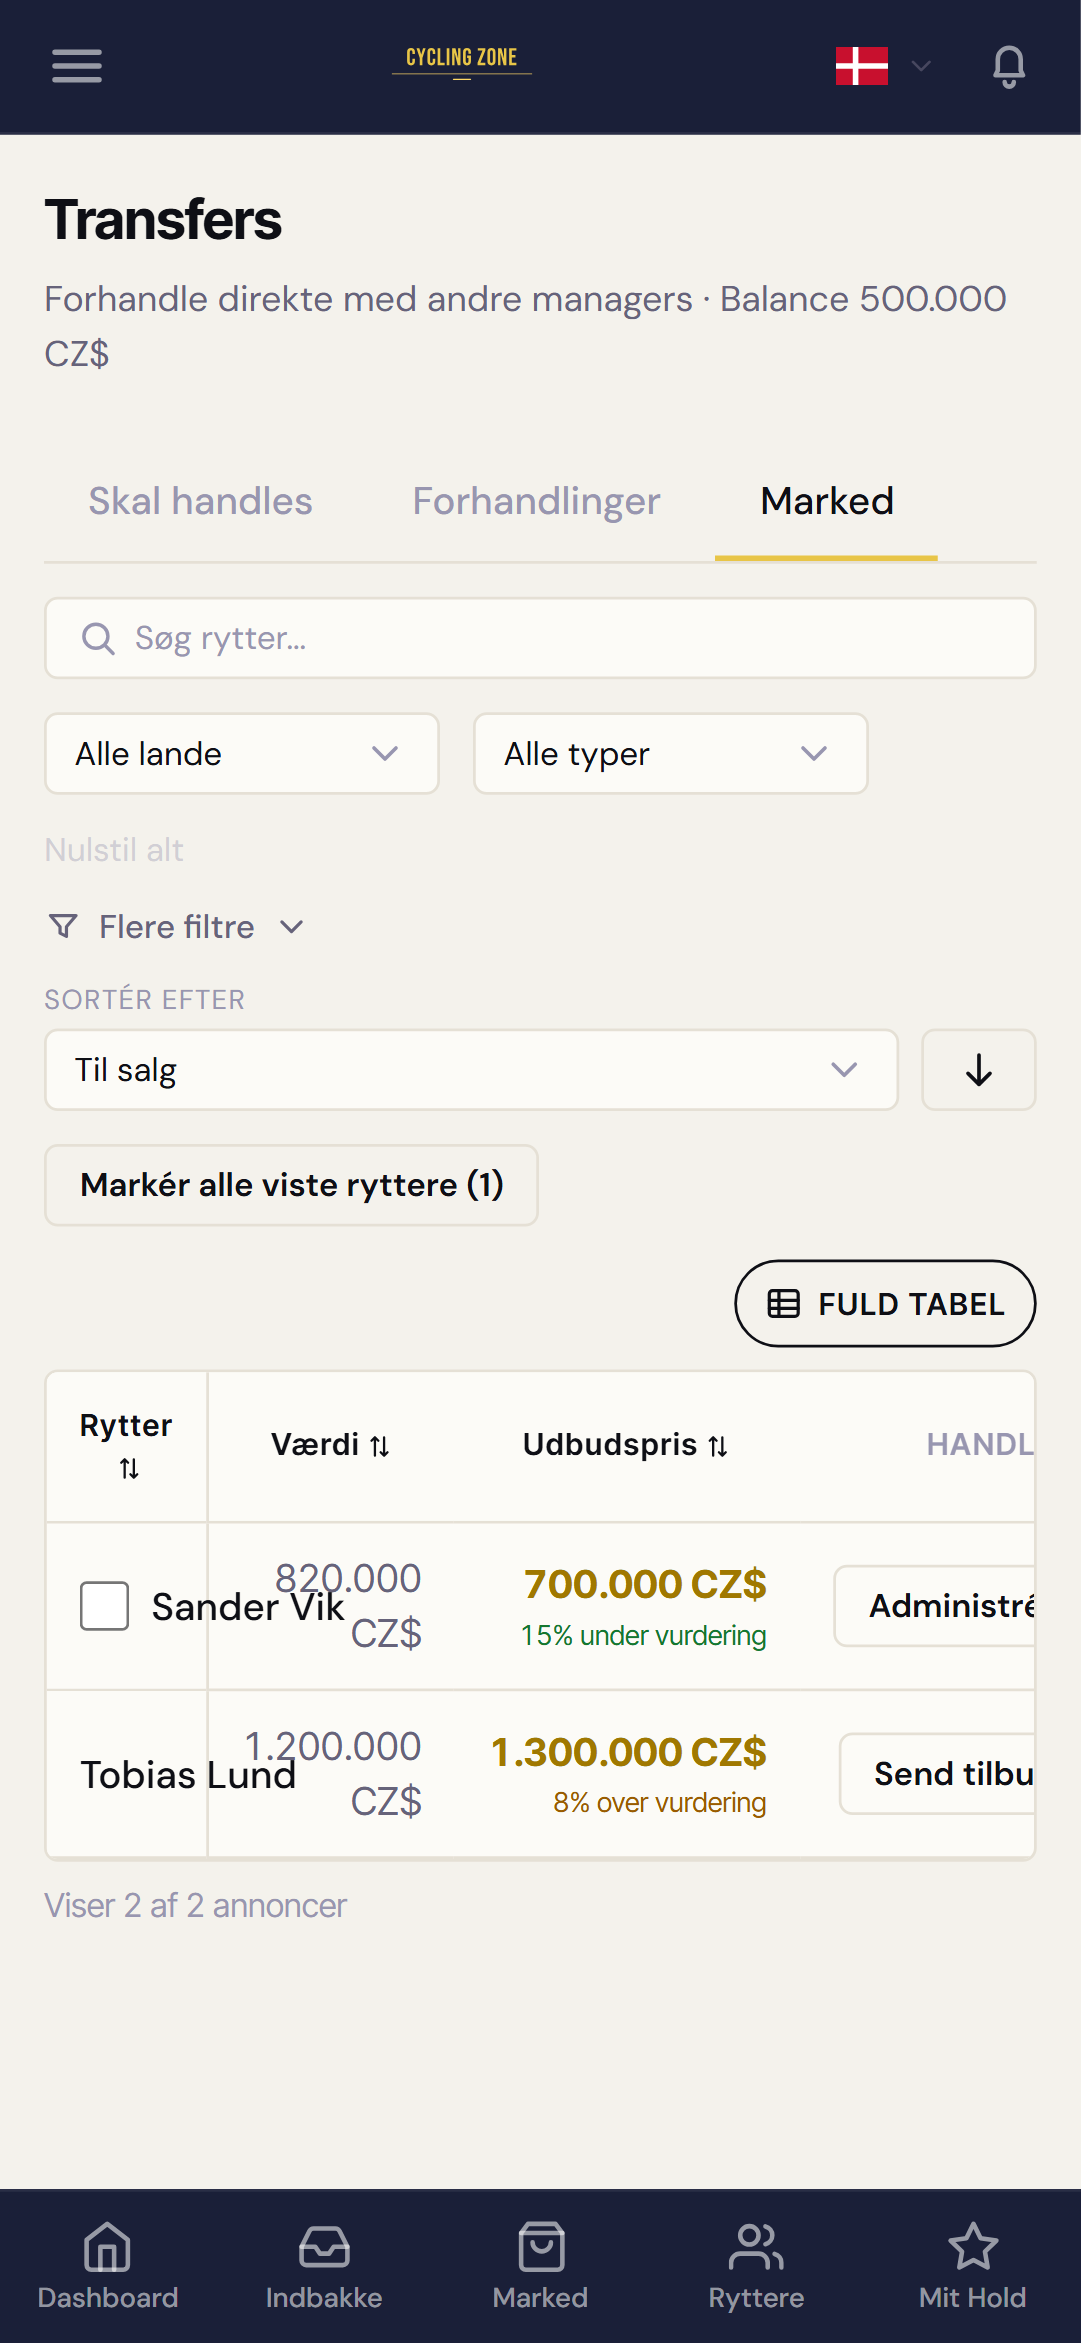
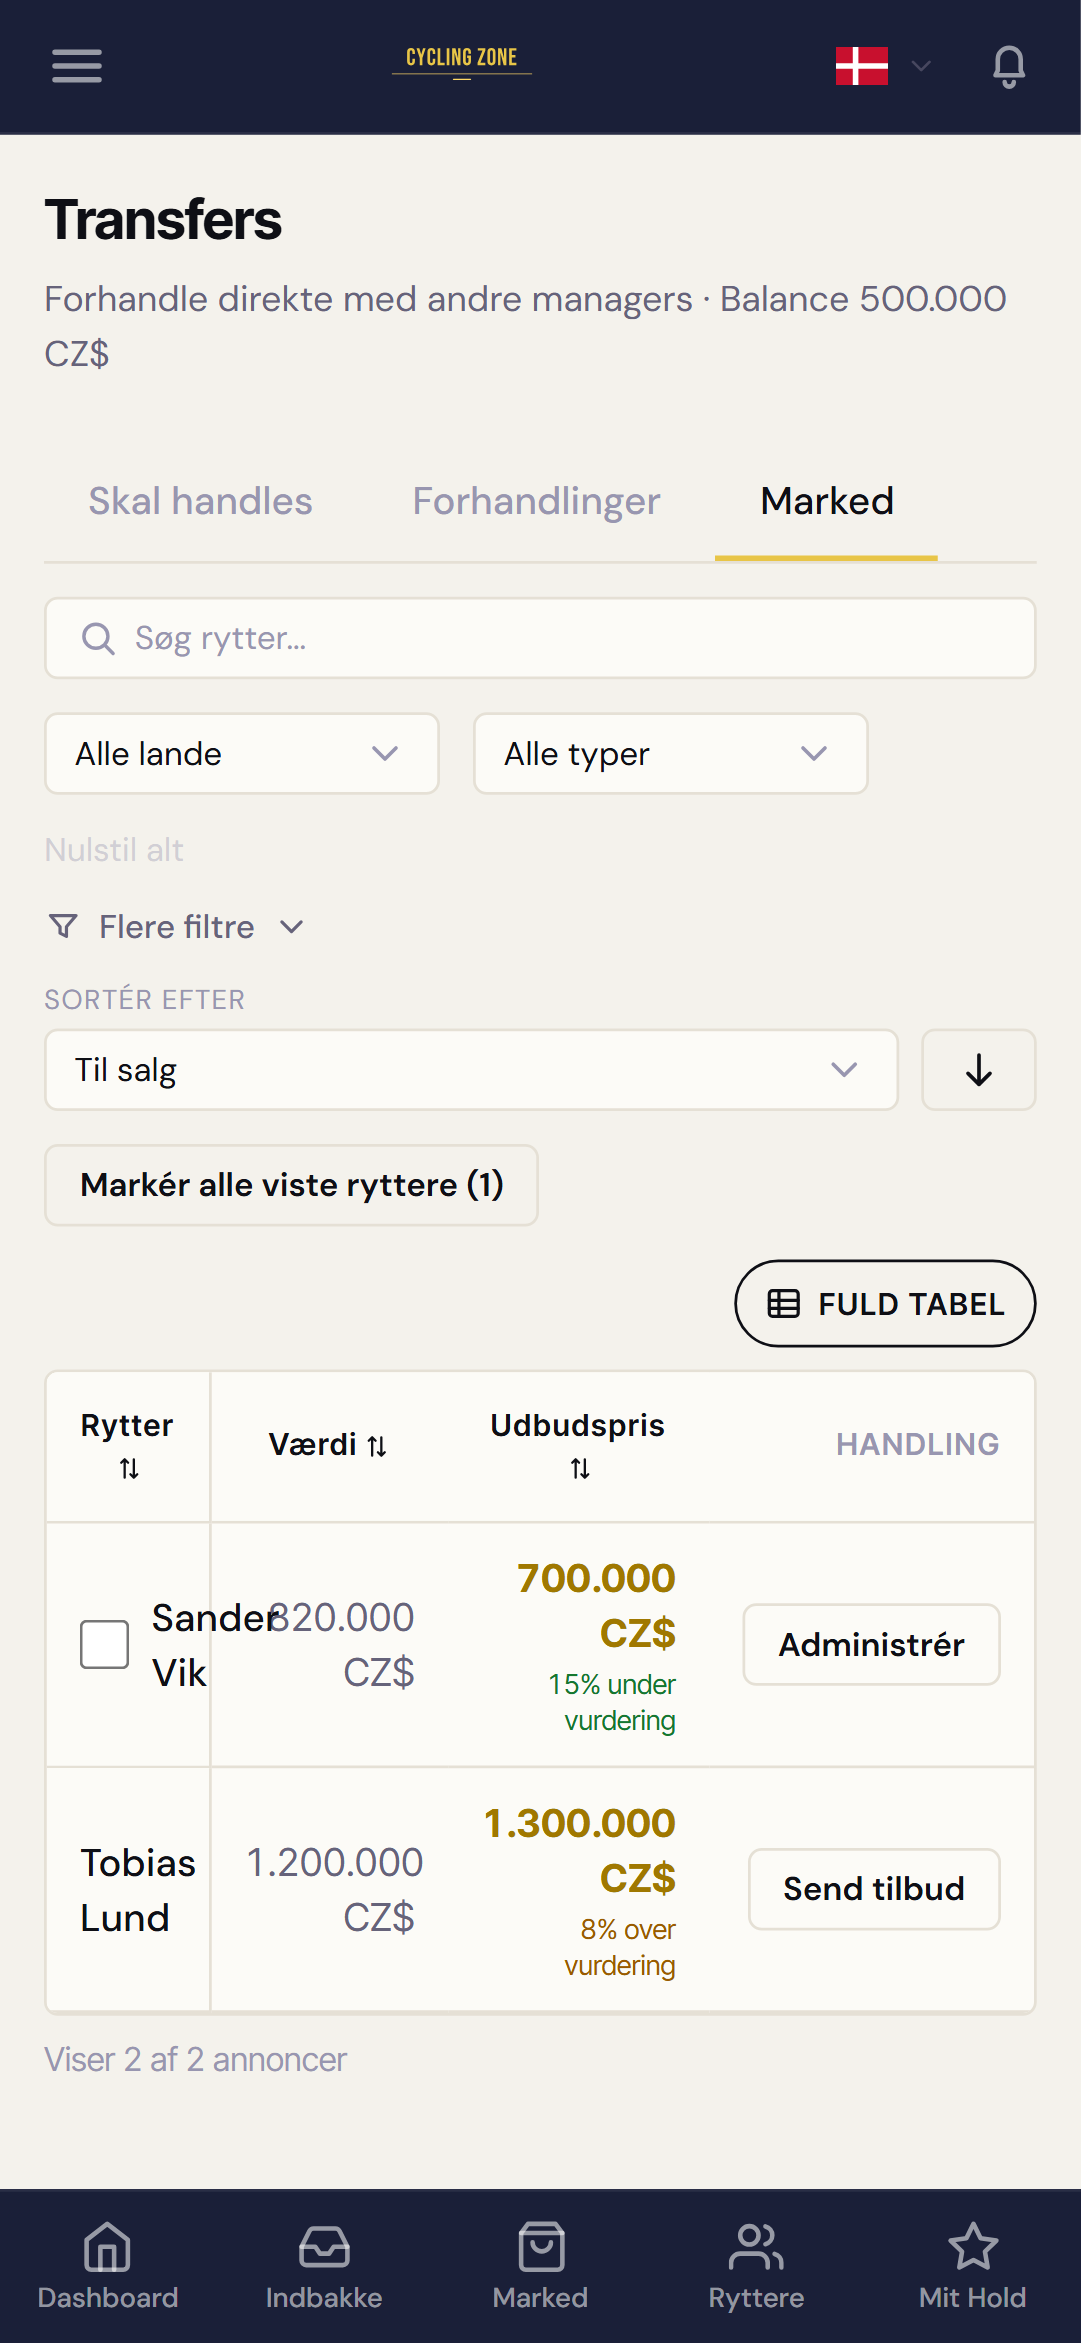
fix(transfers): navn brød midt i ord + Vaerdi/Udbudspris aad pladsen (#5124)
CodeRabbit-fund: RiderNameCell tilfoejede altid whitespace-nowrap
uanset className - min-w-0-forsoeget wrap virkede aldrig. Tilfoejer en
`wrap`-prop (default false, alle eksisterende kald uaendrede) der
fjerner nowrap. Fjerner ogsaa break-words (samme rod-aarsag som
TrainingPage.jsx: tillader midt-i-ord-brud i table-layout:auto naar
kolonnen har en max-w-0-hint - kun min-w-0 er noedvendigt, browseren
bryder alligevel ved ordgraenser).

Vaerdi- og Udbudspris-cellerne havde heller ingen bredde-graense og aad
navnekolonnens plads paa samme maade som Traening-rosterets kolonner -
faar nu max-w paa mobil-standardtilstanden.

Refs #5124

diff --git a/frontend/src/pages/TransfersPage.jsx b/frontend/src/pages/TransfersPage.jsx
@@ -1017,14 +1017,22 @@ function MarketRow({
             {listing.created_at ? formatDate(listing.created_at, null, { day: "numeric", month: "short" }) : "—"}
           </span>
         </td>
-        <td className="px-3 py-2.5 text-right">
+        {/* #5124: max-w på mobil-standardtilstanden — uden den æder Værdi/
+            Udbudspris (ingen af dem havde en bredde-grænse) navnekolonnens
+            plads i tabellens auto-layout, præcis samme fejlklasse som
+            TrainingPage.jsx's roster (se navnecellens kommentar ovenfor). */}
+        <td className={`px-3 py-2.5 text-right ${isMobile && !showStatCols ? "max-w-[22vw]" : ""}`}>
           <span className="text-cz-2 font-mono text-sm">{formatCz(getRiderMarketValue(rider))}</span>
         </td>
         <td className="px-3 py-2.5 text-right hidden sm:table-cell">
           <span className="text-cz-2 font-mono text-sm">{formatCz(getRiderSalary(rider))}</span>
         </td>
-        <td className="px-3 py-2.5 text-right">
-          <span className="text-cz-accent-t font-mono text-sm font-bold whitespace-nowrap">
+        <td className={`px-3 py-2.5 text-right ${isMobile && !showStatCols ? "max-w-[26vw]" : ""}`}>
+          <span
+            className={`text-cz-accent-t font-mono text-sm font-bold ${
+              isMobile && !showStatCols ? "" : "whitespace-nowrap"
+            }`}
+          >
             {formatNumber(listing.asking_price)} CZ$
           </span>
           {/* #3191: udbudspris vs. estimeret markedsværdi — paritet med Auktioners

diff --git a/frontend/src/components/rider/RiderNameCell.jsx b/frontend/src/components/rider/RiderNameCell.jsx
@@ -19,10 +19,17 @@ export default function RiderNameCell({
 }) {
   return (
     <span className={`inline-flex items-center gap-1.5 flex-wrap ${wrap ? "min-w-0" : ""}`}>
+      {/* #5124: KUN `min-w-0` (bryd ved ordgrænser), ikke `break-words` — sidstnævnte
+          tillader browseren at bryde MIDT i et ord, hvilket i en tabel med
+          table-layout:auto (og en `max-w-0`-kolonnehint, se TransfersPage.jsx's
+          sticky navne-celle) presser bredden helt ned til ét tegn pr. linje
+          ("S/a/n/d/e/r"). Uden break-words er kolonnens minimumsbredde det
+          LÆNGSTE ORD i navnet, som table-layout ikke kan presse under — samme
+          fix som TrainingPage.jsx's roster (#5124). */}
       <RiderLink
         id={id}
         stopPropagation={stopPropagation}
-        className={`${className} ${wrap ? "min-w-0 break-words" : "whitespace-nowrap"}`}
+        className={`${className} ${wrap ? "min-w-0" : "whitespace-nowrap"}`}
       >
         {firstname} {lastname}
       </RiderLink>
